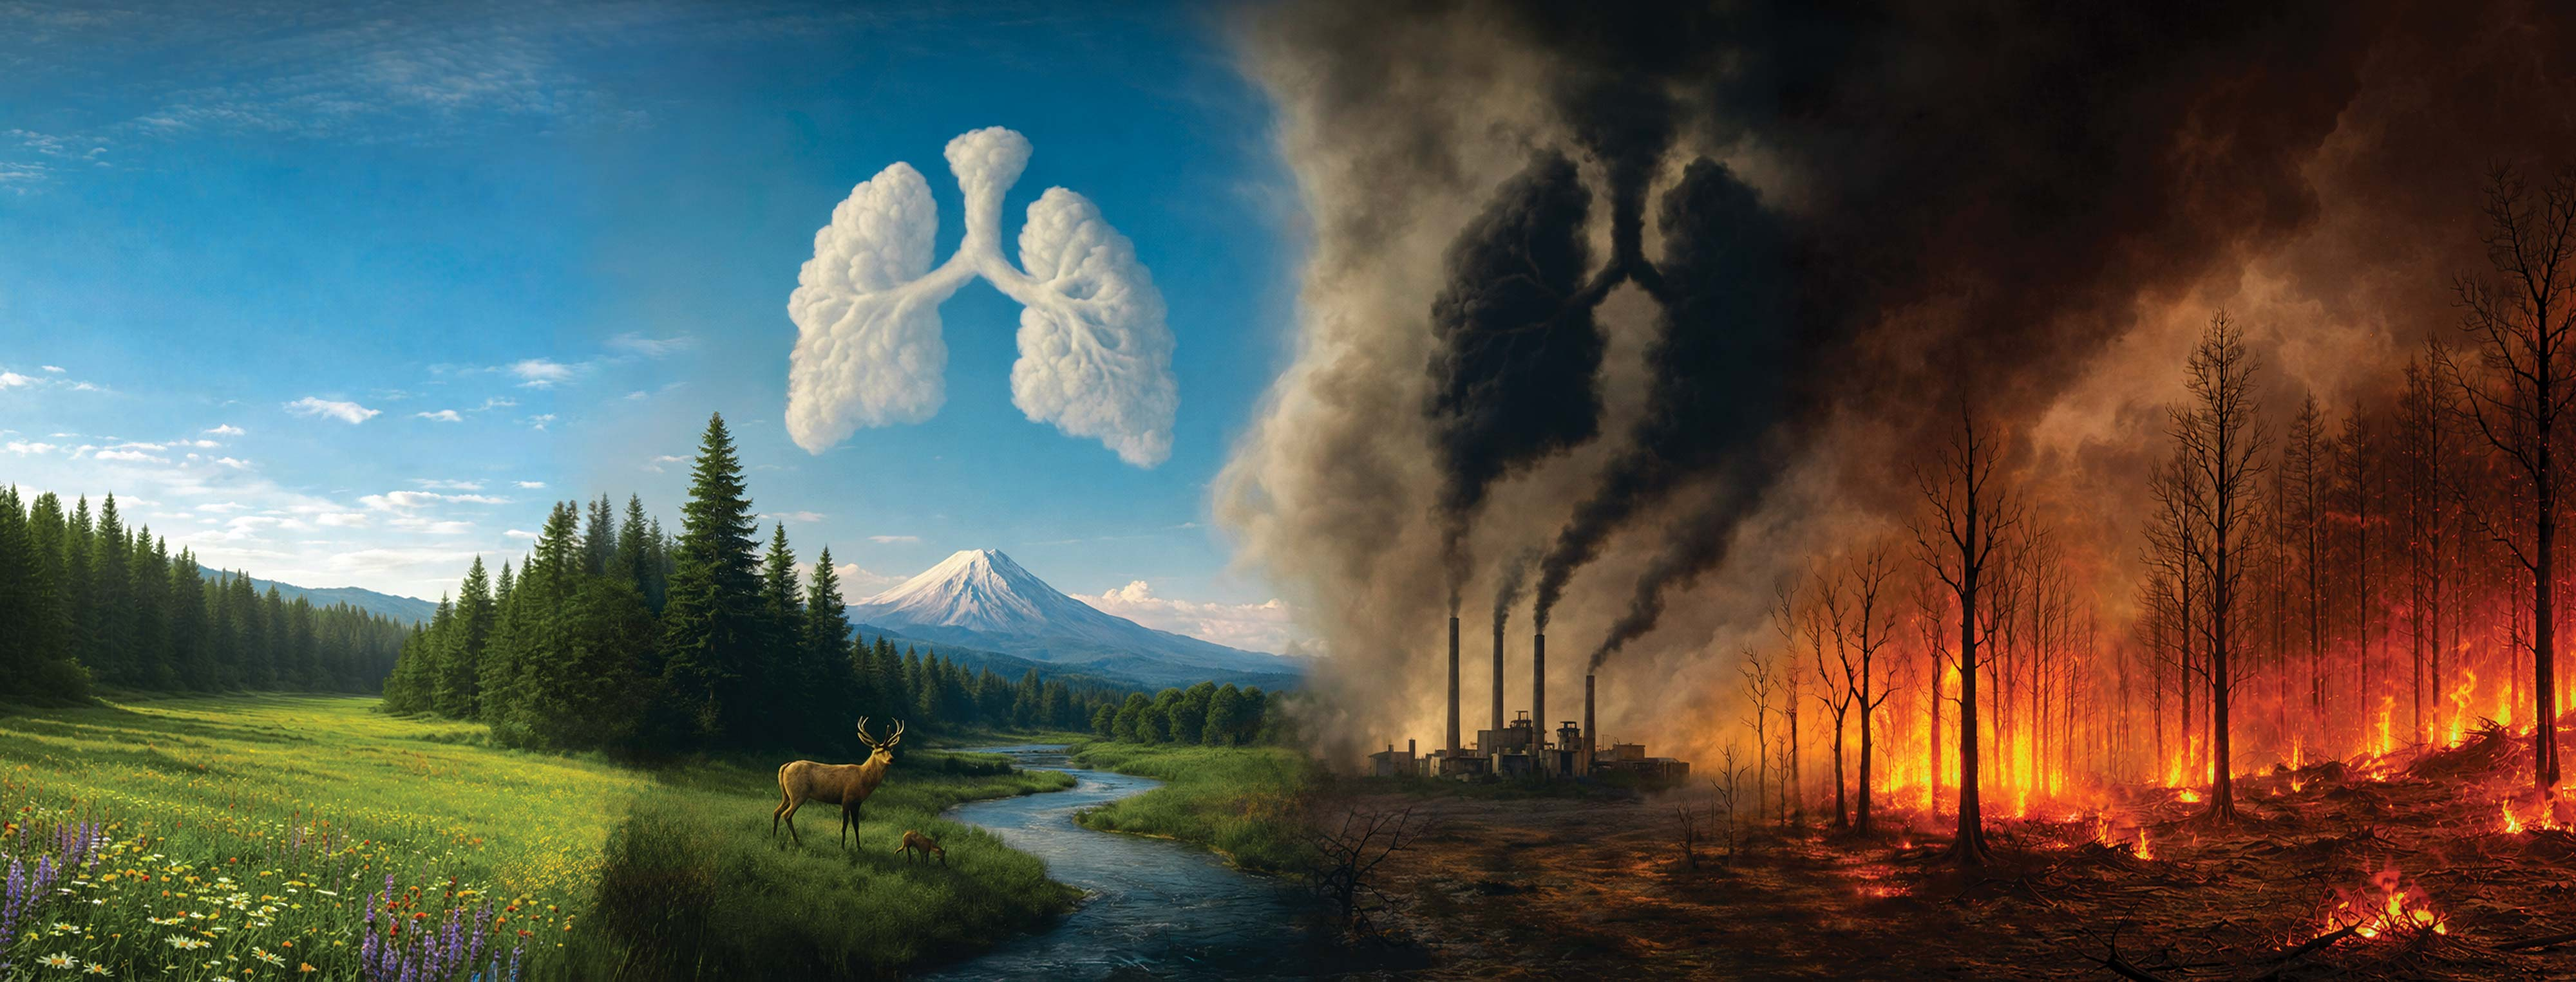
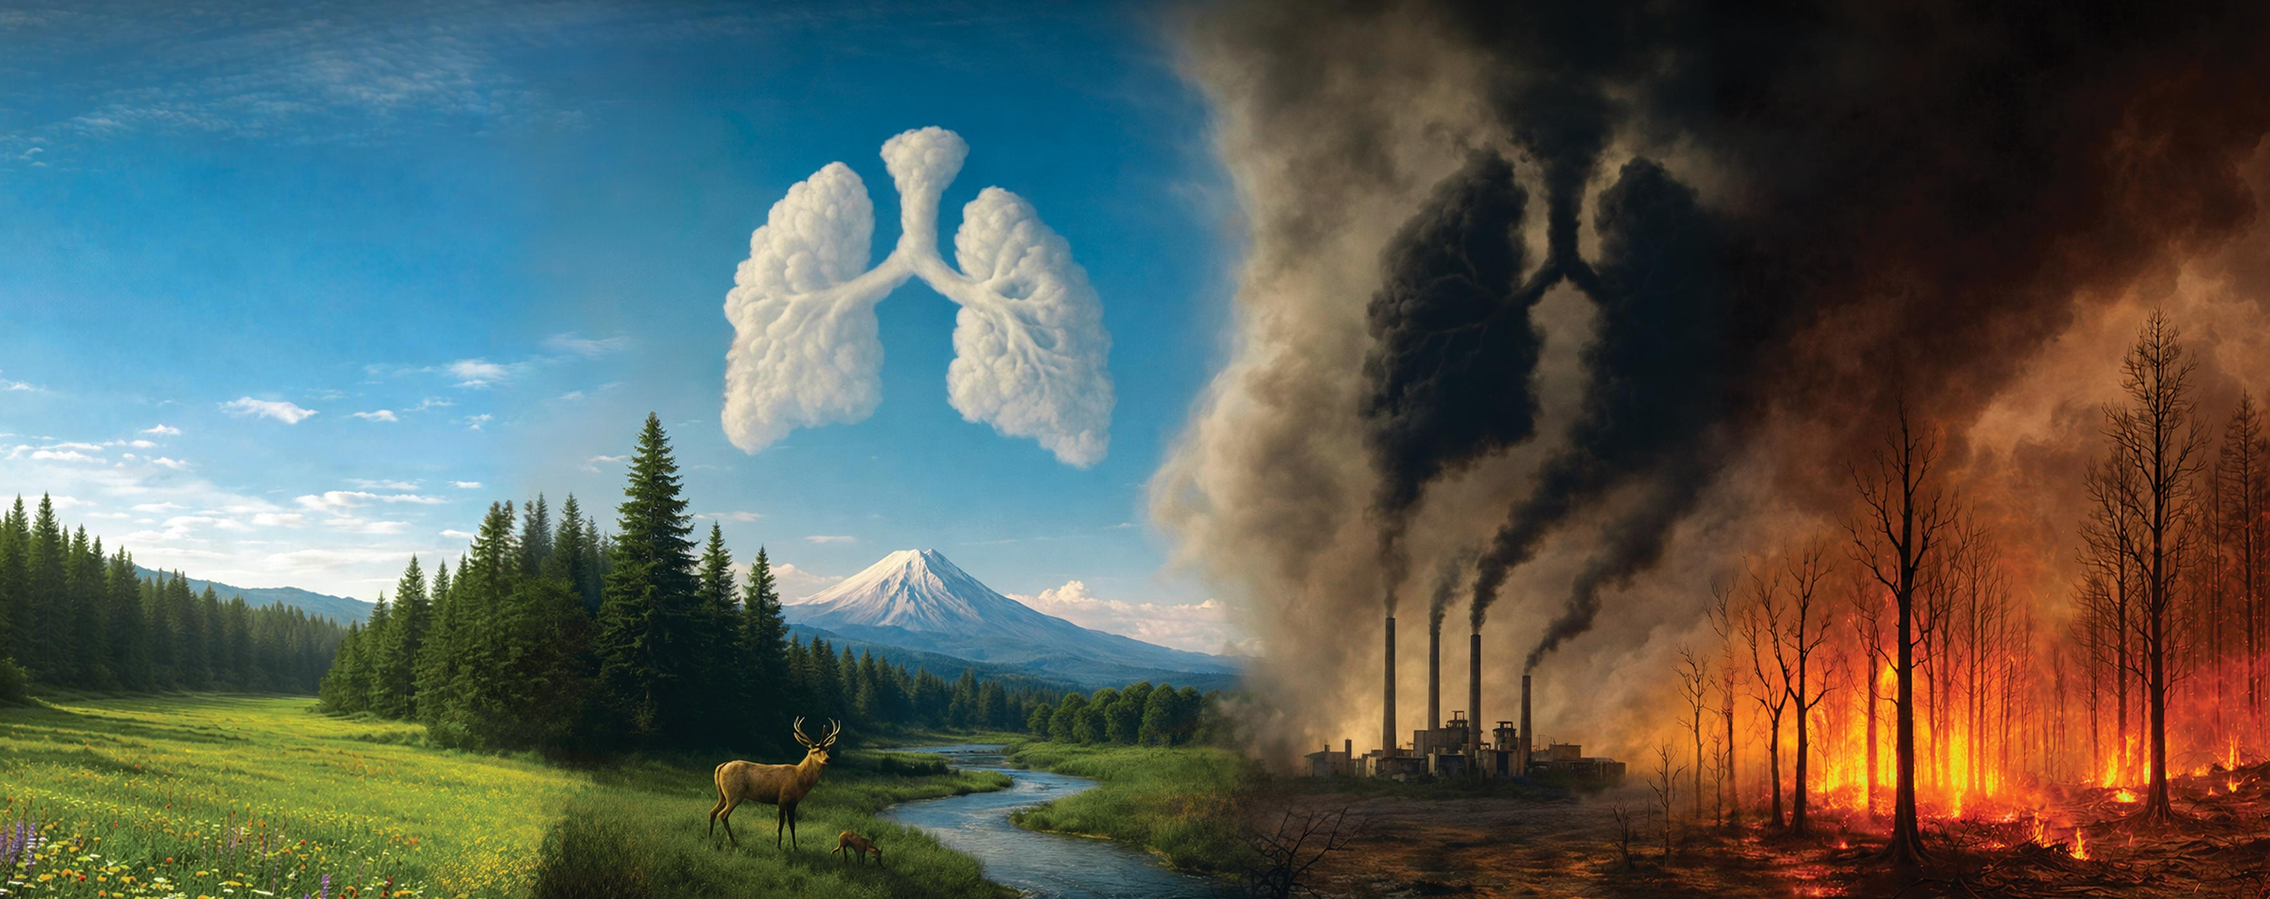
Calibrate OhDeer.jpg continuous grid, dramatic timing beats, and horizontal telescope mirror-flip animation in Scene 3

diff --git a/src/main.js b/src/main.js
@@ -243,8 +243,8 @@ if (promptEl) {
                     circle.style.width = '72px';
                     circle.style.height = '72px';
                     circle.style.backgroundImage = "url('/images/OhDeer.jpg')";
-                    circle.style.backgroundSize = '846px 330px';
-                    circle.style.backgroundPosition = `-${c * 86}px -${r * 86}px`;
+                    circle.style.backgroundSize = '846px 335px';
+                    circle.style.backgroundPosition = `-${c * 86}px -${r * 87.67}px`;
                     circle.style.backgroundRepeat = 'no-repeat';
                     circle.setAttribute('data-row', r);
                     circle.setAttribute('data-col', c);
@@ -270,12 +270,12 @@ if (promptEl) {
                 }
               }
 
-              // 4. Bind GSAP ScrollTrigger for the 0 -> 8100px scroll scrub
+              // 4. Bind GSAP ScrollTrigger for the 0 -> 10000px scroll scrub
               const scrollTl = gsap.timeline({
                 scrollTrigger: {
                   trigger: '#scroll-track',
                   start: 'top top',
-                  end: '8100px top',
+                  end: '10000px top',
                   scrub: true,
                   invalidateOnRefresh: true,
                 }
@@ -448,7 +448,7 @@ if (promptEl) {
                 ease: 'none',
               }, 6700);
 
-              // Phase 12: Scene 3 Step 1 — Large Deer Focus & Heading Start (7200px -> 7500px)
+              // Phase 12: Scene 3 Step 1 — Large Deer Focus & Initial Clause "You see the deer" (7200px -> 7500px)
               // 1. Deer Portal fades in centered over 100px (7200 -> 7300), holds for 200px (7300 -> 7500)
               scrollTl.fromTo('#scene3-deer-focus',
                 { opacity: 0, scale: 1, x: 0, y: 0 },
@@ -484,7 +484,8 @@ if (promptEl) {
                   7425
                 );
 
-                // Phase 13: Scene 3 Step 2 — Deer Migration & Left-Half Random Reveal (7500px -> 8100px)
+                // Phase 13: Scene 3 Step 2 — Left Half Grid Assembles (7500px -> 8100px)
+                // [HEADING IS PAUSED ON "You see the deer"]
                 // 1. Deer Portal glides and scales down into Slot (Row 4, Column 4)
                 scrollTl.to('#scene3-deer-focus', {
                   x: deerDeltaX,
@@ -524,37 +525,85 @@ if (promptEl) {
                   );
                 });
 
-                // 3. Heading words 5-9 ("but", "miss", "the", "burning", "forest.")
-                // Word 4: "but" (7500 -> 7620)
+                // Phase 14: Contemplation Hold (8100px -> 8300px)
+                // [200px stillness hold on completed pristine left half + "You see the deer"]
+
+                // Phase 15: Scene 3 Step 3 — Right Half (Cols 6-10) Wildfire Reveal & Heading Completion (8300px -> 8900px)
+                // 1. Randomized reveal of 20 circles of Columns 6-10 (Right Half)
+                const rightHalfCoords = [
+                  [1, 7], [0, 5], [2, 9], [3, 6], [0, 8],
+                  [1, 5], [2, 6], [3, 9], [0, 6], [2, 5],
+                  [1, 9], [3, 5], [0, 9], [2, 8], [1, 6],
+                  [3, 7], [0, 7], [2, 7], [1, 8], [3, 8]
+                ];
+
+                rightHalfCoords.forEach(([r, c], index) => {
+                  const circleId = `#scene3-circle-${r}-${c}`;
+                  const startTime = 8300 + index * 24;
+                  scrollTl.fromTo(circleId,
+                    { opacity: 0 },
+                    { opacity: 1, duration: 120, ease: 'none', immediateRender: false },
+                    startTime
+                  );
+                });
+
+                // 2. Heading resumes to complete sentence: "...but miss the burning forest."
+                // Word 4: "but" (8300 -> 8420)
                 scrollTl.fromTo(scene3HeadingWords[4],
                   { opacity: 0, y: 12 },
                   { opacity: 1, y: 0, duration: 120, ease: 'none', immediateRender: false },
-                  7500
+                  8300
                 );
-                // Word 5: "miss" (7620 -> 7740)
+                // Word 5: "miss" (8420 -> 8540)
                 scrollTl.fromTo(scene3HeadingWords[5],
                   { opacity: 0, y: 12 },
                   { opacity: 1, y: 0, duration: 120, ease: 'none', immediateRender: false },
-                  7620
+                  8420
                 );
-                // Word 6: "the" (7740 -> 7860)
+                // Word 6: "the" (8540 -> 8660)
                 scrollTl.fromTo(scene3HeadingWords[6],
                   { opacity: 0, y: 12 },
                   { opacity: 1, y: 0, duration: 120, ease: 'none', immediateRender: false },
-                  7740
+                  8540
                 );
-                // Word 7: "burning" (7860 -> 7980)
+                // Word 7: "burning" (8660 -> 8780)
                 scrollTl.fromTo(scene3HeadingWords[7],
                   { opacity: 0, y: 12 },
                   { opacity: 1, y: 0, duration: 120, ease: 'none', immediateRender: false },
-                  7860
+                  8660
                 );
-                // Word 8: "forest." (7980 -> 8100)
+                // Word 8: "forest." (8780 -> 8900)
                 scrollTl.fromTo(scene3HeadingWords[8],
                   { opacity: 0, y: 12 },
                   { opacity: 1, y: 0, duration: 120, ease: 'none', immediateRender: false },
-                  7980
+                  8780
                 );
+
+                // Phase 16: Scene 3 Step 4 — Subheading Reveal & Horizontal Telescope Flip (8900px -> 10000px)
+                // 1. Part 1 fades in normally (8900 -> 9150)
+                scrollTl.fromTo('#scene3-subheading-part1',
+                  { opacity: 0, y: 8 },
+                  { opacity: 1, y: 0, duration: 250, ease: 'none', immediateRender: false },
+                  8900
+                );
+                // 2. Part 2 fades in simultaneously HORIZONTALLY MIRRORED (scaleX: -1) (8900 -> 9150)
+                scrollTl.fromTo('#scene3-subheading-part2',
+                  { opacity: 0, scaleX: -1, transformOrigin: 'center center' },
+                  { opacity: 1, scaleX: -1, transformOrigin: 'center center', duration: 250, ease: 'none', immediateRender: false },
+                  8900
+                );
+
+                // 3. Mirror Contemplation Hold (9150 -> 9300)
+
+                // 4. Physical horizontal flip: "Turns the telescope around" (scaleX: -1 -> 1) (9300 -> 9700)
+                scrollTl.to('#scene3-subheading-part2', {
+                  scaleX: 1,
+                  transformOrigin: 'center center',
+                  duration: 400,
+                  ease: 'power2.inOut',
+                }, 9300);
+
+                // 5. Final Scene 3 End-State Hold (9700 -> 10000)
               }
             }
           });

diff --git a/index.html b/index.html
@@ -113,8 +113,8 @@
 
         <!-- Scene 3: Visuals & Narrative Container -->
         <div id="scene3-container" class="absolute inset-0 flex flex-col items-center justify-center pointer-events-none z-10">
-          <!-- 4x10 Grid Container of 40 Circular Apertures (846px x 330px) -->
-          <div id="scene3-grid" class="relative w-[846px] h-[330px] grid grid-cols-10 grid-rows-4 gap-[14px] pointer-events-none" style="transform: translateY(-20px);">
+          <!-- 4x10 Grid Container of 40 Circular Apertures (846px x 335px matching OhDeer.jpg aspect ratio) -->
+          <div id="scene3-grid" class="relative w-[846px] h-[335px] grid grid-cols-10 grid-rows-4 gap-x-[14px] gap-y-[15.67px] pointer-events-none" style="transform: translateY(-20px);">
             <!-- 40 circles populated by JS with seamless continuous offsets -->
           </div>
 
@@ -131,16 +131,16 @@
               <span class="heading-word">burning</span>
               <span class="heading-word">forest.</span>
             </h2>
-            <p id="scene3-subheading" class="scene-subheading text-center select-none mt-4 opacity-0">
-              <span id="scene3-subheading-part1">The tools you use to find solutions limit what you’re able to see. </span>
-              <span id="scene3-subheading-part2" class="italic">(Turn the telescope around.)</span>
+            <p id="scene3-subheading" class="scene-subheading text-center select-none mt-4">
+              <span id="scene3-subheading-part1" class="inline-block opacity-0">The tools you use to find solutions limit what you’re able to see. </span>
+              <span id="scene3-subheading-part2" class="inline-block italic opacity-0 origin-center">(Turn the telescope around.)</span>
             </p>
           </div>
         </div>
 
         <!-- Scene 3: Initial Large Deer Focus Circle (300px centered) -->
         <div id="scene3-deer-focus-wrapper" class="absolute inset-0 flex items-center justify-center pointer-events-none z-20">
-          <div id="scene3-deer-focus" class="w-[300px] h-[300px] rounded-full overflow-hidden opacity-0 pointer-events-none relative" style="background-image: url('/images/OhDeer.jpg'); background-size: 3525px 1375px; background-position: -1075px -1075px; background-repeat: no-repeat;">
+          <div id="scene3-deer-focus" class="w-[300px] h-[300px] rounded-full overflow-hidden opacity-0 pointer-events-none relative" style="background-image: url('/images/OhDeer.jpg'); background-size: 3525px 1397px; background-position: -1075px -1096px; background-repeat: no-repeat;">
           </div>
         </div>
 
@@ -160,7 +160,7 @@
     </div>
 
     <!-- Scroll Track (Allows scrolling for GSAP ScrollTrigger) -->
-    <div id="scroll-track" class="w-full h-[10000px]"></div>
+    <div id="scroll-track" class="w-full h-[12000px]"></div>
 
     <!-- Application Script Entrypoint -->
     <script type="module" src="/src/main.js"></script>
